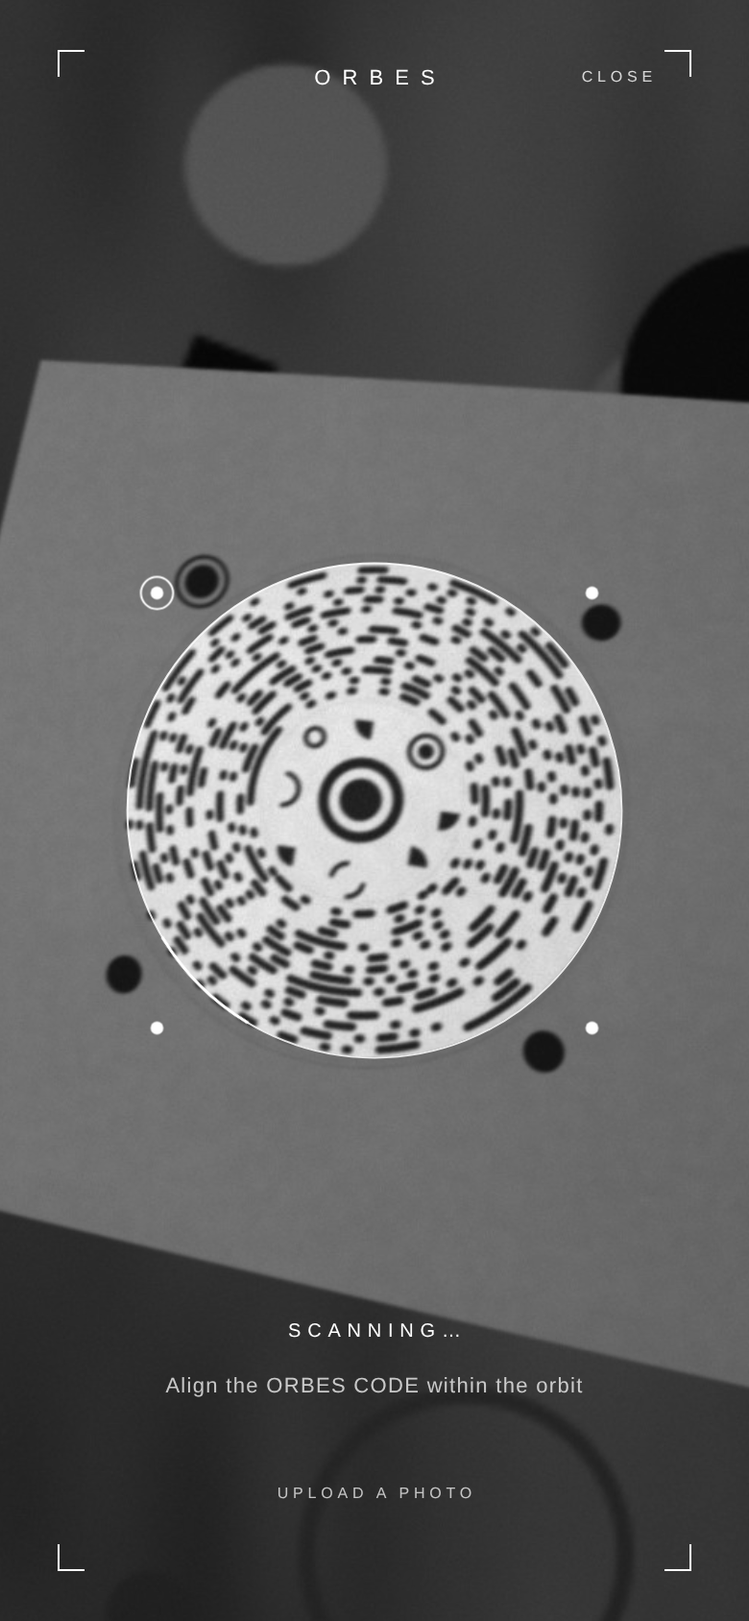
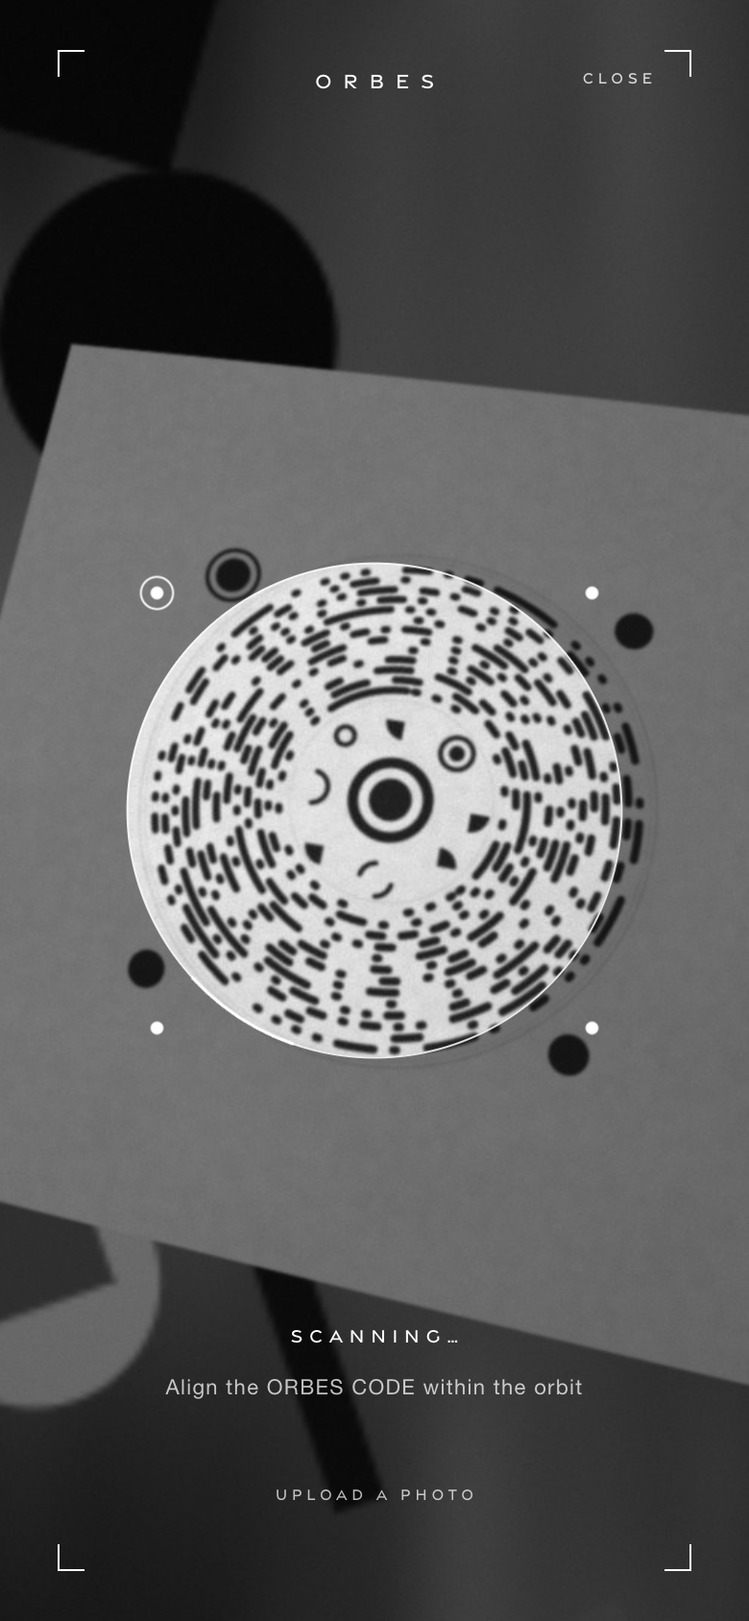
Docs: the display face in BRAND §3.1 and §8 item 18 closed, its licence in NOTICE, a theorbes.com proposal held for the owner, captures regenerated
- BRAND §3.1: two faces (--font-display for the wordmark, titles and
  labels; --font for everything read), the shipped subset and the command
  that rebuilds it, preload and caching, why figures stay in --font
  (Gravesend's one is its capital I), weights (one Medium cut), and a face
  column in both type-in-use tables; §3 intro and §3.8 say so. §8 item 18
  is resolved, as the brand's decision in place of a Helvetica Neue cut
  first in --font; item 1 no longer says the apps typeset ORBES in
  Helvetica Neue.
- NOTICE.md: Gravesend Sans Medium, © Rian Hughes / Device, commercial;
  the web licence is the brand's responsibility; what was changed.
- docs/launch/THEORBES-FONT.md: the same declaration for theorbes.com
  (file, vercel.json cache header, preload, @font-face, which elements),
  with checks and an undo, applied only on the owner's agreement and a
  licence that covers the domain. index.html and vercel.json untouched.
- DEPLOYMENT and the genome README mention the font under /assets/.
- 13 captures regenerated in Chrome for Testing on macOS; the locked
  scanner is kept from its earlier Linux capture, because this browser
  paints the frozen camera frame black (said in §3.1).

diff --git a/docs/BRAND-DESIGN-SYSTEM.md b/docs/BRAND-DESIGN-SYSTEM.md
@@ -8,7 +8,7 @@ Every value in this document is read from the code. Where a rule is a brand reco
 | Layer | File |
 |---|---|
 | House style of theorbes.com (the reference) | `index.html` (root; never modified) |
-| Web tokens and primitives | `genome/src/web/shared/brand.css`, `corners.ts`, `dom.ts` |
+| Web tokens and primitives | `genome/src/web/shared/brand.css`, `corners.ts`, `dom.ts`, `fonts/gravesend-sans-500.woff2` (display face) |
 | Verification app | `genome/src/web/verify/**` (copy in `copy.ts`) |
 | Console | `genome/src/web/admin/**` |
 | Public result copy | `genome/src/server/services/copy.ts` |
@@ -231,15 +231,34 @@ Beyond 0.12 u of spread, adjacent rings start to merge. Foil, deboss fill and en
 
 ## 3. Interface foundations
 
-Both web apps import `shared/brand.css`, which mirrors the house style of theorbes.com: white and black, Helvetica Neue, uppercase micro-type with wide tracking, 1 px rules, hairline corner brackets, film grain and slow `cubic-bezier(0.22, 1, 0.36, 1)` motion. All CSS is in external files (CSP `style-src 'self'`); scripts only toggle classes or set custom properties through the CSSOM.
+Both web apps import `shared/brand.css`, which mirrors the house style of theorbes.com: white and black, Helvetica Neue, uppercase micro-type with wide tracking, 1 px rules, hairline corner brackets, film grain and slow `cubic-bezier(0.22, 1, 0.36, 1)` motion. One addition: the brand's display face, Gravesend Sans, sets the wordmark, titles and labels (§3.1). All CSS is in external files (CSP `style-src 'self'`); scripts only toggle classes or set custom properties through the CSSOM.
 
 ### 3.1 Typography
 
-**Stack.** `"Helvetica Neue", HelveticaNeue, Helvetica, Arial, sans-serif` (`--font`), the exact stack of `index.html`. No web font is shipped. On Apple devices the design renders in Helvetica Neue (and Helvetica Neue Light for weight 300). Elsewhere it falls back to Helvetica or Arial, and on most Android devices to the platform sans-serif (Roboto); weight 300 then renders as 400. The screenshots in this document were taken in Chromium on Linux, where the stack resolves to Liberation Sans, metric-compatible with Helvetica and Arial, at weight 400 throughout.
+**Two faces**, both tokens of `brand.css`:
+
+| Token | Stack | Sets |
+|---|---|---|
+| `--font-display` | `"Gravesend Sans", var(--font)` | The brand's voice: the wordmark, titles and tracked-capital labels (navigation, tabs, eyebrows, section, row and column labels, field labels, buttons and text links, status lines such as SCANNING…) |
+| `--font` | `"Helvetica Neue", HelveticaNeue, Helvetica, Arial, sans-serif`, the exact stack of `index.html` | Everything read: sentences, values, identifiers, codes, dates, counts, the customer reference, inputs. The page default (`body`). |
+
+The display face is opted into role by role: `brand.css` sets the shared `.wordmark`, `.btn`, `.textlink` and `.field__label`, and each app lists its own titles and labels in one rule at the end of its stylesheet. No stylesheet names a font except through these tokens and the console's `--mono` (checked by `genome/test/web/verify.brand.test.ts`).
+
+**Gravesend Sans Medium** (Rian Hughes / Device, 2019; the one cut the brand supplied, licence in [NOTICE.md](../NOTICE.md)) ships as `genome/src/web/shared/fonts/gravesend-sans-500.woff2`: 10.4 KB, subset with fontTools to Basic Latin (U+0020–007E) and the brand's punctuation `© · × – — ‘ ’ “ ” • … ← → −`, kerning kept, its other OpenType features dropped, its copyright and designer names kept. The `@font-face` of `brand.css` declares weight 500, `font-display: swap` (the fallback paints at once, never invisible text) and a `unicode-range` equal to the subset, so any other character falls back to `--font`; the test checks that range against the file's own character map and weight class. The build emits the file to `/assets/` with a content hash, cached as immutable like the bundles, from the page origin that the CSP already allows (`default-src 'self'`). Both shells preload it (`<link rel="preload" as="font" type="font/woff2" crossorigin>`), and `genome/scripts/build-web.ts` rewrites that preload to the very file the stylesheet loads, so a visitor downloads it once for both apps (`test/web/verify.build.test.ts`; the E2E suites count the requests). To rebuild the subset from the supplied OTF:
+
+```sh
+pyftsubset GravesendSans-Medium.otf --flavor=woff2 --desubroutinize --layout-features=kern --name-IDs='*' \
+  --unicodes="U+0020-007E,U+00A9,U+00B7,U+00D7,U+2013-2014,U+2018-2019,U+201C-201D,U+2022,U+2026,U+2190,U+2192,U+2212" \
+  --output-file=genome/src/web/shared/fonts/gravesend-sans-500.woff2
+```
+
+**Figures read in `--font`.** Gravesend's figure one is drawn as its capital I, its zero is an oval beside a round O, and it has no tabular figures. Every line that can carry an identifier, a code, a count or a date is therefore set in `--font`, even beside display labels: the console crumb, panel notes, dialog titles and numbered enrolment steps, a page titled with a product id (`pageHeader({ identifier: true })`, `.page-head__title--id`), the scanner's zoom control (1×, 2×). A fixed label whose figures cannot be misread keeps the display face (VERIFICATIONS · 24 H, PAYLOAD SHA-256). The E2E suites check that no visible display text of the verify result, the console dashboard or a product page holds a one or a zero.
+
+**Rendering.** Display text renders in Gravesend Sans on every platform, Android and Windows included. Reading text renders in Helvetica Neue on Apple devices (Helvetica Neue Light for weight 300); elsewhere it falls back to Helvetica or Arial, and on most Android devices to the platform sans-serif (Roboto), where weight 300 renders as 400. The screenshots in this document were taken on 2026-10-02 in Chrome for Testing on macOS, so reading text is Helvetica Neue. One predates the display face: the locked scanner (`verify-03-locked.png`), kept from an earlier capture in Chromium on Linux because Chrome for Testing on macOS paints the frozen camera frame black; on Linux the reading stack resolves to Liberation Sans, metric-compatible with Helvetica and Arial.
 
 **Case and tracking.** Titles, labels, buttons, tabs and metadata are uppercase with wide tracking. Explanatory sentences are sentence case, never tracked beyond 0.06 em. Tracked type carries trailing letter-spacing after its last glyph, so centred tracked text is compensated with an equal `text-indent` (`.indent-micro`, `.indent-label`, and per-component indents), as theorbes.com does.
 
-**Weights.** 400 everywhere; 300 for display numerals and titles (result title, console page title, KPI values, product id in the console sheet, generator identity); 700 only in the console, for alert and critical status labels and the lifecycle move in the history timeline.
+**Weights.** Gravesend has one weight, Medium (500), and the display face renders every display role in it, whatever weight the role asks for: the result title and the console page title ask for 300, which only their fallback honours. In `--font`: 400 everywhere; 300 for display numerals (KPI values, the product id of the console sheet, the generator identity, a page titled with a product id); 700 only in the console, for alert and critical status labels and the lifecycle move in the history timeline, all in `--font`. No display role asks for a bold the browser would have to fake from the single cut (checked).
 
 **Numerals.** `font-variant-numeric: tabular-nums` for identifiers, dates and values. Counts use a thin space (U+2009) as thousands separator: `12 480`.
 
@@ -270,50 +289,52 @@ Component sizes between those steps are tokens too, so neither stylesheet sets a
 | `--fs-display-sm` / `--fs-display` | 22 / 26px | console product id / generator identity |
 | `--fs-figure` | 46px | KPI value |
 
+*Face* is `--font-display` (display) or `--font` (reading). *Weight* is the weight a role asks for; display roles render in Gravesend's single Medium (500), and only their fallback honours 300.
+
 **Verification app — type in use**
 
-| Role | Size | Weight | Tracking | Notes |
-|---|---|---|---|---|
-| Wordmark, landing | clamp(26px, 7.6vw, 34px) | 400 | 0.62em | indent 0.62em |
-| Wordmark, small (result) | 12px | 400 | 0.55em | 11px in the scanner header |
-| AUTHENTICATION | 9px | 400 | 0.40em | `--ink-soft` |
-| Result title | 24px | 300 | 0.30em | line-height 1.3; **18px** / 1.55 for caution and void states |
-| Result sub-title | 10px | 400 | 0.30em | `--ink-soft`, e.g. FIRST REGISTRATION |
-| Message title (problems) | 15px | 400 | 0.30em | line-height 1.7 |
-| Prose | 13px | 400 | 0.02em | line-height 1.75, `--ink-soft`, balanced wrapping, ≤ 31–32 ch |
-| Owner notice | 12px | 400 | 0.02em | between two `--hairline-strong` rules |
-| GENOME label | 8px | 400 | 0.36em | `--ink-soft` |
-| GENOME id | 17px | 400 | 0.22em | tabular |
-| Product lines | 11px | 400 | 0.30em | line-height 2.55 |
-| Tabs | 9px | 400 | 0.22em | selected `--ink`, others `--ink-soft` |
-| Row label / value | 9px / 11px | 400 | 0.28em / 0.14em | value right-aligned, tabular |
-| Section label | 8.5px | 400 | 0.34em | e.g. VERIFICATION |
-| Status line (scanner, verifying) | 10px | 400 | 0.34em | |
-| Scan hint | 11px | 400 | 0.06em | sentence case, `rgba(255,255,255,0.74)` |
-| Button | 10px | 400 | 0.28em | |
-| Text link, scanner controls, field labels | 8px | 400 | 0.30em | |
-| Field input | 16px | 400 | 0.04em | 16px so iOS does not zoom; code input 18px / 0.28em |
-| Transfer code | 19px | 400 | 0.26em | tabular, on ivory |
-| Footnote | 10px | 400 | 0.02em | line-height 1.75 |
-| Result meta (VERIFIED · REF) | 10px | 400 | 0.22em | `--ink-soft`, tabular: the reference customers quote |
-| Landing meta | 7px | 400 | 0.32em | opacity 0.4, as theorbes.com's 6.5px meta at 0.28 |
+| Role | Face | Size | Weight | Tracking | Notes |
+|---|---|---|---|---|---|
+| Wordmark, landing | display | clamp(26px, 7.6vw, 34px) | 400 | 0.62em | indent 0.62em |
+| Wordmark, small (result) | display | 12px | 400 | 0.55em | 11px in the scanner header |
+| AUTHENTICATION | display | 9px | 400 | 0.40em | `--ink-soft` |
+| Result title | display | 24px | 300 | 0.30em | line-height 1.3; **18px** / 1.55 for caution and void states |
+| Result sub-title | display | 10px | 400 | 0.30em | `--ink-soft`, e.g. FIRST REGISTRATION |
+| Message title (problems) | display | 15px | 400 | 0.30em | line-height 1.7 |
+| Prose | reading | 13px | 400 | 0.02em | line-height 1.75, `--ink-soft`, balanced wrapping, ≤ 31–32 ch |
+| Owner notice | reading | 12px | 400 | 0.02em | between two `--hairline-strong` rules |
+| GENOME label | display | 8px | 400 | 0.36em | `--ink-soft` |
+| GENOME id | reading | 17px | 400 | 0.22em | tabular |
+| Product lines | reading | 11px | 400 | 0.30em | line-height 2.55 |
+| Tabs | display | 9px | 400 | 0.22em | selected `--ink`, others `--ink-soft` |
+| Row label / value | display / reading | 9px / 11px | 400 | 0.28em / 0.14em | value right-aligned, tabular |
+| Section label | display | 8.5px | 400 | 0.34em | e.g. VERIFICATION |
+| Status line (scanner, verifying) | display | 10px | 400 | 0.34em | |
+| Scan hint | reading | 11px | 400 | 0.06em | sentence case, `rgba(255,255,255,0.74)` |
+| Button | display | 10px | 400 | 0.28em | |
+| Text link, scanner controls, field labels | display (zoom control: reading) | 8px | 400 | 0.30em | |
+| Field input | reading | 16px | 400 | 0.04em | 16px so iOS does not zoom; code input 18px / 0.28em |
+| Transfer code | reading | 19px | 400 | 0.26em | tabular, on ivory |
+| Footnote | reading | 10px | 400 | 0.02em | line-height 1.75 |
+| Result meta (VERIFIED · REF) | reading | 10px | 400 | 0.22em | `--ink-soft`, tabular: the reference customers quote |
+| Landing meta | display | 7px | 400 | 0.32em | opacity 0.4, as theorbes.com's 6.5px meta at 0.28 |
 
 **Console — type in use**
 
-| Role | Size | Weight | Tracking |
-|---|---|---|---|
-| Sidebar wordmark | 15px | 400 | 0.62em (the shared `.wordmark`, `--track-wordmark`) |
-| Page title | 30px | 300 | 0.20em |
-| Product id (fact sheet) / generator identity | 22px / 26px | 300 | 0.22em / 0.20em |
-| KPI value | 46px | 300 | 0.04em, tabular |
-| Dialog title | 17px | 400 | 0.18em |
-| Claim code | 30px | 400 | 0.24em |
-| Panel title | 11px | 400 | 0.30em |
-| Navigation link | 10px | 400 | 0.24em |
-| Status mark text | 10px | 400 (700 for alert, critical) | 0.20em (0.18em bold) |
-| Body, table cells, definition values | 12–13px | 400 | 0.03–0.06em |
-| Eyebrows, column heads, field labels, buttons, crumb | 8px | 400 | 0.30–0.36em |
-| Identifiers and hashes | 11.5px monospace | 400 | 0.02em |
+| Role | Face | Size | Weight | Tracking |
+|---|---|---|---|---|
+| Sidebar wordmark | display | 15px | 400 | 0.62em (the shared `.wordmark`, `--track-wordmark`) |
+| Page title | display (reading when it is a product id) | 30px | 300 | 0.20em |
+| Product id (fact sheet) / generator identity | reading | 22px / 26px | 300 | 0.22em / 0.20em |
+| KPI value | reading | 46px | 300 | 0.04em, tabular |
+| Dialog title | reading | 17px | 400 | 0.18em |
+| Claim code | reading | 30px | 400 | 0.24em |
+| Panel title | display | 11px | 400 | 0.30em |
+| Navigation link | display | 10px | 400 | 0.24em |
+| Status mark text | reading | 10px | 400 (700 for alert, critical) | 0.20em (0.18em bold) |
+| Body, table cells, definition values | reading | 12–13px | 400 | 0.03–0.06em |
+| Eyebrows, column heads, field labels, buttons, crumb | display (crumb: reading) | 8px | 400 | 0.30–0.36em |
+| Identifiers and hashes | monospace | 11.5px monospace | 400 | 0.02em |
 
 Monospace (`ui-monospace, "SF Mono", SFMono-Regular, Menlo, Consolas, "Liberation Mono", monospace`) is reserved for identifiers and hashes, and appears only in the console.
 
@@ -430,6 +451,7 @@ The verification app carries theorbes.com's film grain: a fixed SVG `feTurbulenc
 - **Fields**: a label in 8 px tracked caps, a single 1 px underline (`--hairline-strong`, ink on focus), no box.
 - **Focus**: a 1 px `currentColor` outline 4 px outside the element, keyboard only (`:focus-visible`); headings that receive focus programmatically on screen changes show none.
 - **Console buttons** (`.cbtn`): 38 px, 8 px tracked caps, square; *primary* is the hairline button (outlined in ink, filled only on hover or keyboard focus), *secondary* outlined, *ghost* an underlined word, *danger* outlined in oxblood.
+- **Type**: buttons, text links and field labels speak in the display face; what is typed into a field reads in `--font` (§3.1).
 
 ---
 
@@ -693,7 +715,7 @@ Physical test kit: [`assets/test-sheets/orbes-code-test-sheets.pdf`](assets/test
 
 Places where the implementation departs from this system or from itself. None affects decoding or security.
 
-1. **Three renderings of the wordmark.** theorbes.com shows ORBES as a raster logo (geometric sans, base64 PNG in `index.html`). The apps typeset it in Helvetica Neue at 0.62 em (`.wordmark`, `genome/src/web/shared/brand.css`; 0.55 em small; console sidebar `genome/src/web/admin/styles.css` `.side__wordmark`); the vocabulary specimen at 0.42 em, weight 300 (`genome/scripts/genome-symbol-study.ts`); the print label in stroked geometric lettering at 0.9 cap-height tracking (`genome/src/server/render/print-sheet.ts` `LABEL_LAYOUT`). A single vector wordmark should replace all four. **Partly resolved (console, 2026-10-01):** the sidebar wordmark is the shared `.wordmark` (`--track-wordmark`, 0.62 em) at 15 px, no longer a copy of its values. Still open, **outside this software prototype**: one vector wordmark for the specimen, the print label and theorbes.com needs the brand's master vector artwork (a design deliverable; only the raster PNG in `index.html` exists), and theorbes.com's `index.html` is not modified by this system. When the artwork exists, it replaces the stroked lettering of `LABEL_LAYOUT` and the specimen's typeset title.
+1. **Three renderings of the wordmark.** theorbes.com shows ORBES as a raster logo (geometric sans, base64 PNG in `index.html`). The apps typeset it at 0.62 em (`.wordmark`, `genome/src/web/shared/brand.css`; 0.55 em small; console sidebar `genome/src/web/admin/styles.css` `.side__wordmark`), in Gravesend Sans since 2026-10-02 (§3.1, item 18); the vocabulary specimen at 0.42 em, weight 300 (`genome/scripts/genome-symbol-study.ts`); the print label in stroked geometric lettering at 0.9 cap-height tracking (`genome/src/server/render/print-sheet.ts` `LABEL_LAYOUT`). A single vector wordmark should replace all four. **Partly resolved (console, 2026-10-01):** the sidebar wordmark is the shared `.wordmark` (`--track-wordmark`, 0.62 em) at 15 px, no longer a copy of its values. Still open, **outside this software prototype**: one vector wordmark for the specimen, the print label and theorbes.com needs the brand's master vector artwork (a design deliverable; only the raster PNG in `index.html` exists), and theorbes.com's `index.html` is not modified by this system. When the artwork exists, it replaces the stroked lettering of `LABEL_LAYOUT` and the specimen's typeset title.
 2. **Ink.** theorbes.com uses `#000000`; the apps use `--ink: #0A0A0A`. ~~The scanner ground is pure `#000` (`genome/src/web/verify/styles.css`, `body[data-screen="scan"]`, `.view--scan`).~~ **Resolved (verify app, 2026-10-01):** the scanner ground and veil use `var(--ink)` (guarded by `genome/test/web/verify.brand.test.ts`). **Resolved (GENOME on ivory, 2026-10-01):** the GENOME on the ivory plates is drawn in the ivory colourway's ink `ORBES_CODE_STYLES.ivory.ink` (`#111111`, now in `genome/src/core/code/styles.ts`) by `genomeFigureMarkup` (`genome/src/web/admin/ui/figures.ts`) and `genomeRowMarkup` (`genome/src/web/verify/genome-view.ts`), exactly as the ivory code prints it (checked by `test/web/admin.brand.test.ts` and `test/web/verify.brand.test.ts`). Was: the same GENOME on screen was drawn in `#0A0A0A` (console) or `currentColor` = `--ink` (verify). theorbes.com's `#000000` stays as it is (`index.html` is not part of this system).
 3. **`--metal` used for text that must be read.** **Resolved (console, 2026-10-01):** every readable text of `genome/src/web/admin/styles.css` that was `--metal` (`.side__group-title`, `.login__foot`, `.bar--zero` labels, `.cinput::placeholder`, the sidebar and sign-in place lines, the hidden claim code) is now `--ink-soft` (6.7 : 1 on white, 6.0 : 1 on ivory); no rule sets text colour to `--metal` any more, and the `brand.css` comment states 6.7 : 1 (checked by `test/web/admin.brand.test.ts`). Was: `--metal` used, against its own comment ("never used for text that must be read", 2.8 : 1, 2.5 : 1 on ivory): console navigation group titles `.side__group-title`, the sign-in foot "Internal use only · All actions are recorded" `.login__foot`, zero-value bar labels `.bar--zero`, and input placeholders `.cinput::placeholder` (`genome/src/web/admin/styles.css`). The `--ink-soft` comment also states 6.4 : 1; the measured ratio is 6.7 : 1 (`brand.css`).
 4. ~~**The reference customers are asked to quote is 7 px.**~~ **Resolved (verify app, 2026-10-01):** `.result__meta` is now 10 px (`--fs-micro`), `--ink-soft`, tabular, without the 8 px `.nano` class. Was: Non-authentic results say "Please quote the reference below", but `REF …` is set at 7 px, `--ink-soft` (`.result__meta`, `genome/src/web/verify/styles.css`). It should be at least 10 px.
@@ -710,7 +732,7 @@ Places where the implementation departs from this system or from itself. None af
 15. ~~**Specimen palette.**~~ **Resolved (2026-10-01):** `SPECIMEN_PAPER` is ivory `#F6F2EA` and `SPECIMEN_MUTED` is `--ink-soft` `#5C5C5C`; the specimen was regenerated with unchanged geometry. Was: `docs/assets/genome-01-vocabulary.svg` uses paper `#F7F5F0` and grey `#8A8780` (`SPECIMEN_PAPER`, `SPECIMEN_MUTED` in `genome/scripts/genome-symbol-study.ts`), not ivory `#F6F2EA` and `--ink-soft` / `--metal`.
 16. ~~**Quiet band wording in the spec.**~~ **Resolved (2026-10-01):** ORBES-CODE-SPEC §3, §4.7 and §9 now keep the seal quiet ring and the 2 u margin ink-free and permit, in the outer quiet band only, the decorative hairlines at r 23.5 and 24.0 at their specified tones with ≥ 0.6 u clearance. Was: ORBES-CODE-SPEC §3 counts the band "between data and moons" as a quiet zone and §9 says quiet zones "MUST be free of ink", yet the decor horizon (r 24.0) and outer guide (r 23.5) are printed in that band by design (`genome/src/core/code/primitives.ts`; the horizon is about 34 % contrast in the classic colourway). The spec should limit "free of ink" to the seal quiet ring and the outer 2 u zone, and allow decor at ≥ 0.6 u clearance.
 17. ~~**Customer vocabulary.**~~ **Resolved (server copy, 2026-10-01):** the AUTHENTIC message now reads "registered to an active **piece**" (`genome/src/server/services/copy.ts`). Was: "registered to an active product", while every other customer sentence says "piece".
-18. **Platform fonts.** No web font is shipped, so Android and Windows visitors see Roboto or Arial and never the light weight (§3.1). Still open, **outside this software prototype**: licensing and bundling a Helvetica Neue cut (or choosing a licensed alternative) is a brand and licensing decision; no font file can be added without a licence. Until then the stack of §3.1 is the deliberate fallback, identical to theorbes.com's. A licensed WOFF2 would be served from `/assets/`, which the CSP already allows (`default-src 'self'`, `genome/src/server/http/security.ts`).
+18. ~~**Platform fonts.**~~ **Resolved (both apps, 2026-10-02):** the brand supplied its display face, Gravesend Sans Medium (Rian Hughes / Device; its web licence is the brand's responsibility, [NOTICE.md](../NOTICE.md)). It ships as a 10.4 KB WOFF2 subset (`genome/src/web/shared/fonts/gravesend-sans-500.woff2`), declared in `brand.css` with `font-display: swap`, preloaded by both shells and served from `/assets/` with a content hash (§3.1). It sets the wordmark, titles and tracked-capital labels through the new token `--font-display`, so they render identically on Apple, Android and Windows devices; reading text stays in the Helvetica Neue stack of `--font`, identical to theorbes.com. This is the brand's decision in place of the first recommendation (a Helvetica Neue or Now cut in weights 300 and 400, first in `--font`): one file was supplied, a display face, so it gets its own token, and figures stay in `--font` because Gravesend's one is its capital I (§3.1). Still open, **outside this software**: the same face on theorbes.com, prepared in [launch/THEORBES-FONT.md](launch/THEORBES-FONT.md) for the owner's agreement (`index.html` is not modified by this system), and reading text on Android and Windows, which still falls back to the platform sans-serif. Was: no web font was shipped, so Android and Windows visitors saw Roboto or Arial and never the light weight; licensing and bundling a Helvetica Neue cut, or a licensed alternative, was a brand and licensing decision.
 19. ~~**"REGISTRATION OPEN" after it has closed.**~~ **Resolved (verify app, 2026-10-01):** the heading reads REGISTRATION CLOSED once the window has expired (`registrationStatus`, `genome/src/web/verify/view-model.ts`). Was: When the registration window of a scan has expired, the OWNERSHIP tab still heads the panel REGISTRATION OPEN above "The registration window of this scan has closed." (`genome/src/web/verify/views/ownership.ts`, `registerBlock`).
 20. **Certificate card awaiting validation.** The card that carries the claim code (§7) is produced by the console and the API, but its layout has not been validated by the brand: every card, sheet and file therefore says PROOF (`CERTIFICATE_LAYOUT_STATUS = 'PROOF'`, `genome/src/server/render/certificate.ts`). Still open: the brand reviews the specimen of §7 (format, lettering sizes, copy, scratch-off panel) with the [packaging kit](launch/PACKAGING-KIT.md) (its §6 lists what to sign off), then the constant becomes `VALIDATED` and the specimens are regenerated (`genome/scripts/certificate-specimen.ts`; `genome/test/render/certificate.test.ts` checks they match).
 

diff --git a/docs/launch/THEORBES-FONT.md b/docs/launch/THEORBES-FONT.md
@@ -1,0 +1,86 @@
+# theorbes.com: the display face (proposal)
+
+Status: **proposal, not applied.** Nothing here changes theorbes.com until the owner agrees: the site is the root `index.html`, which this system never modifies. Related: [BRAND-DESIGN-SYSTEM §3.1](../BRAND-DESIGN-SYSTEM.md#31-typography) and §8 item 18, [NOTICE.md](../../NOTICE.md).
+
+## 1. Why
+
+Since 2026-10-02 the verification app (`/verify`) and the console set their wordmark, titles and tracked-capital labels in the brand's display face, Gravesend Sans Medium, shipped as a web font; reading text stays in Helvetica Neue. theorbes.com still sets everything in the system stack `"Helvetica Neue", HelveticaNeue, Helvetica, Arial, sans-serif`. A visitor who goes from the site to `/verify` therefore sees the labels change face. The declaration below makes the site's tracked capitals match the app's, with the same file, the same subset and the same fallback.
+
+## 2. Before applying
+
+1. **Licence.** The web licence for Gravesend Sans (Device, <http://devicefonts.co.uk>) must cover `theorbes.com` as well as `verify.theorbes.com`. This is the owner's to confirm; without it, stop here.
+2. **Agreement.** The owner approves the change to `index.html` and the list of elements in §3.3.
+
+## 3. The change
+
+### 3.1 The file
+
+Copy the subset the apps ship, unchanged, to a path Vercel publishes (`.vercelignore` excludes `genome/`), with a version in its name so it can be cached for a year:
+
+```sh
+mkdir -p fonts
+cp genome/src/web/shared/fonts/gravesend-sans-500.woff2 fonts/gravesend-sans-500.v1.woff2
+```
+
+A new subset is a new name (`.v2`), never a replaced file.
+
+### 3.2 `vercel.json`: cache the font
+
+Add a `headers` entry beside the existing `redirects`:
+
+```json
+"headers": [
+  {
+    "source": "/fonts/(.*)",
+    "headers": [{ "key": "Cache-Control", "value": "public, max-age=31536000, immutable" }]
+  }
+]
+```
+
+### 3.3 `index.html`
+
+In `<head>`, before the `<style>` element:
+
+```html
+<link rel="preload" href="/fonts/gravesend-sans-500.v1.woff2" as="font" type="font/woff2" crossorigin>
+```
+
+At the top of the `<style>` element, the same declaration as `genome/src/web/shared/brand.css`:
+
+```css
+@font-face {
+  font-family: "Gravesend Sans";
+  src: url("/fonts/gravesend-sans-500.v1.woff2") format("woff2");
+  font-weight: 500;
+  font-style: normal;
+  font-display: swap;
+  unicode-range: U+0020-007E, U+00A9, U+00B7, U+00D7, U+2013-2014, U+2018-2019, U+201C-201D, U+2022, U+2026, U+2190, U+2192, U+2212;
+}
+```
+
+Then, on the site's tracked-capital text only, the display stack in place of the system stack:
+
+```css
+font-family: "Gravesend Sans", "Helvetica Neue", HelveticaNeue, Helvetica, Arial, sans-serif;
+```
+
+| Elements (selectors in `index.html`) | Proposed face |
+|---|---|
+| `.top-text p`, `.bottom-text p`, `.reveal span`, `#text-rewrite`, `.meta span`, `#ghost-text`, `#cryptic-msg` | Gravesend Sans |
+| `#chromatic-btn`, `#snake-btn`, `#trade-rules-btn`, `#trade-night-switch`, `#trade-signal-label`, `#trade-close` | Gravesend Sans |
+| `#countdown`, `#snake-score`, `#game-hud`, and any element that shows figures | unchanged (Helvetica Neue) |
+| `html, body` and running text | unchanged (Helvetica Neue) |
+| The ORBES logo (raster image) | unchanged: the master vector artwork is BRAND §8 item 1 |
+
+Figures stay in Helvetica Neue for the reason the apps keep them there: Gravesend's figure one is drawn as its capital I, and it has no tabular figures (BRAND §3.1).
+
+## 4. Checks after deploying
+
+- The page shows the labels in Gravesend Sans on an Android phone and on Windows, not only on Apple devices.
+- The browser's network panel lists **one** request for `gravesend-sans-500.v1.woff2`, answered `200` with `Cache-Control: public, max-age=31536000, immutable` and `Content-Type: font/woff2`. Two requests mean the preload and the CSS name different URLs or the `crossorigin` attribute is missing.
+- No text disappears while the page loads (`font-display: swap`).
+- Every countdown, score and other figure still reads in Helvetica Neue.
+
+## 5. Undo
+
+Remove the `<link rel="preload">`, the `@font-face` block and the display stacks from `index.html`, and the `headers` entry from `vercel.json`; the `fonts/` file can stay or go. The site is then exactly as before.

diff --git a/NOTICE.md b/NOTICE.md
@@ -19,3 +19,27 @@ address of a scan. The location is used only for internal anomaly scoring
   `orbes-geoip`) and reads it as published; values are rounded at lookup time.
 
 The database file itself is not part of this repository.
+
+## Fonts
+
+**Gravesend Sans Medium** — Rian Hughes / Device, <http://devicefonts.co.uk>
+
+The verification app (`/verify`) and the console (`/admin`) set their
+wordmark, titles and labels in Gravesend Sans Medium, the brand's display
+face (BRAND-DESIGN-SYSTEM §3.1).
+
+- File: `genome/src/web/shared/fonts/gravesend-sans-500.woff2`, served from
+  `/assets/` of the verification service. theorbes.com does not use it; a
+  proposal waits for the owner's agreement (`docs/launch/THEORBES-FONT.md`).
+- Copyright: © 2019 Rian Hughes / Device. All rights reserved.
+- Licence: commercial, not open source. ORBES supplied the font and is
+  responsible for holding a web (webfont) licence that covers its use on
+  the domains that serve it. The repository carries the file only to build
+  these apps; it is not licensed for any other use.
+- Changes: a subset of the supplied OpenType (CFF) file, converted to WOFF2
+  with fontTools: Basic Latin and the punctuation the interfaces use, kerning
+  kept, other OpenType features removed. The copyright and designer names
+  are kept in the file. The command is in BRAND-DESIGN-SYSTEM §3.1.
+
+Helvetica Neue and the other families of the reading stack are not shipped:
+they come from the visitor's device.

diff --git a/genome/README.md b/genome/README.md
@@ -79,7 +79,7 @@ npm ci
 | `npm run dev` | Development server with reload (`tsx watch`). Listens on `127.0.0.1:8080`. In-memory PGlite and keys, migrated and keyed automatically. Everything is lost on restart. |
 | `npm start` | Same server without reload (`node --import tsx src/server/index.ts`), which is how the container runs it. In production add `-- --migrate` or `MIGRATE_ON_START=true` to apply migrations. |
 | `npm run demo` | The server in demo mode (`tsx src/server/index.ts --demo`, the same as `npm start -- --demo`): in-memory PGlite loaded with the demo dataset through the real services; a demo console sign-in is printed once. Development and test only. Serves the web apps when `dist/web/` has been built. |
-| `npm run build:web` | Builds `src/web/*` into `dist/web/` (esbuild, minified, content-hashed, CSP-checked). The server serves `/verify`, `/admin` and `/assets/*` from there when it exists. `npx tsx scripts/build-web.ts --dev` gives unminified output with sourcemaps. |
+| `npm run build:web` | Builds `src/web/*` into `dist/web/` (esbuild, minified, content-hashed, CSP-checked; the shells' font preload points at the very file the CSS loads). The server serves `/verify`, `/admin` and `/assets/*` from there when it exists. `npx tsx scripts/build-web.ts --dev` gives unminified output with sourcemaps. |
 
 For a persistent local setup, point `DATABASE_URL` at a directory or a PostgreSQL database, and keep keys on disk:
 

diff --git a/docs/DEPLOYMENT.md b/docs/DEPLOYMENT.md
@@ -55,7 +55,7 @@ One image (`genome/Dockerfile`) contains everything the service needs:
 |---|---|---|
 | `/verify`, `/verify/*` | Mobile scanner (`dist/web/verify`) | Needs HTTPS: browsers only open the camera in a secure context. |
 | `/admin`, `/admin/*` | Admin console (`dist/web/admin`) | Restrict at the edge (§14). |
-| `/assets/*` | Content-hashed bundles, CSS, favicons | `Cache-Control: public, max-age=31536000, immutable`. |
+| `/assets/*` | Content-hashed bundles, CSS, favicons, the display font (WOFF2, preloaded by both shells) | `Cache-Control: public, max-age=31536000, immutable`. |
 | `/api/v1/*` | Public and account API | `Cache-Control: no-store`, except `/api/v1/keys` (5 min) and `/api/v1/categories` (1 min). |
 | `/api/admin/*` | Admin API | Cookie sessions, CSRF, TOTP enforced in production. |
 | `/.well-known/orbes-keys.json` | Public signing keys (same document as `/api/v1/keys`) | CORS `*`, `max-age=300`. |
